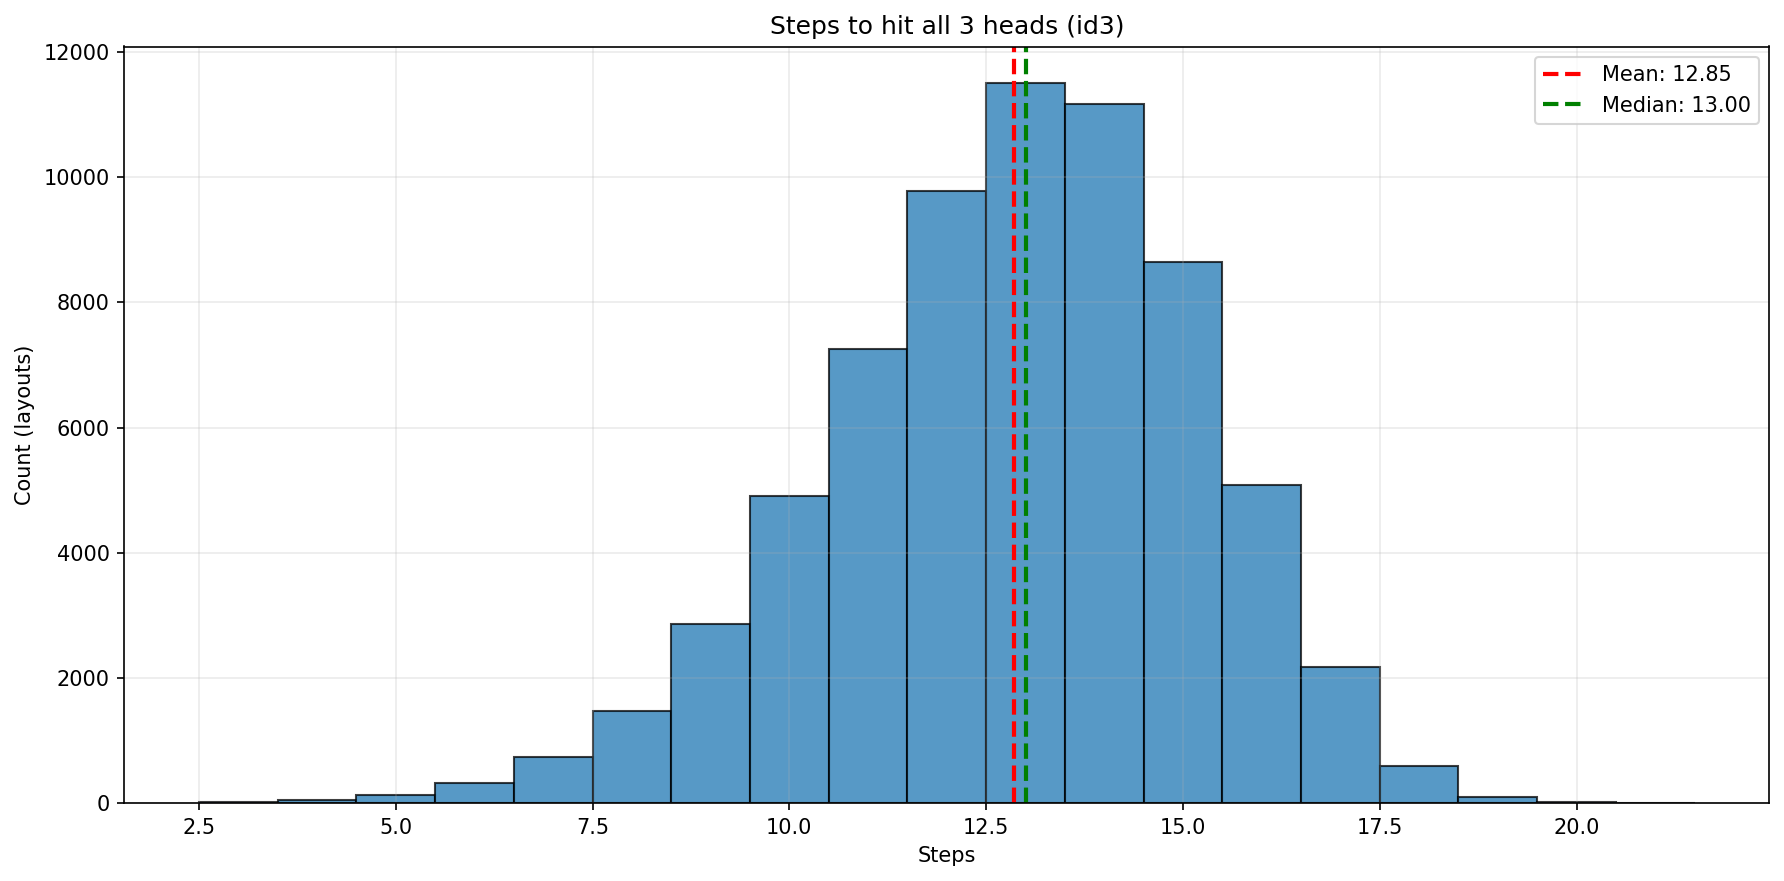
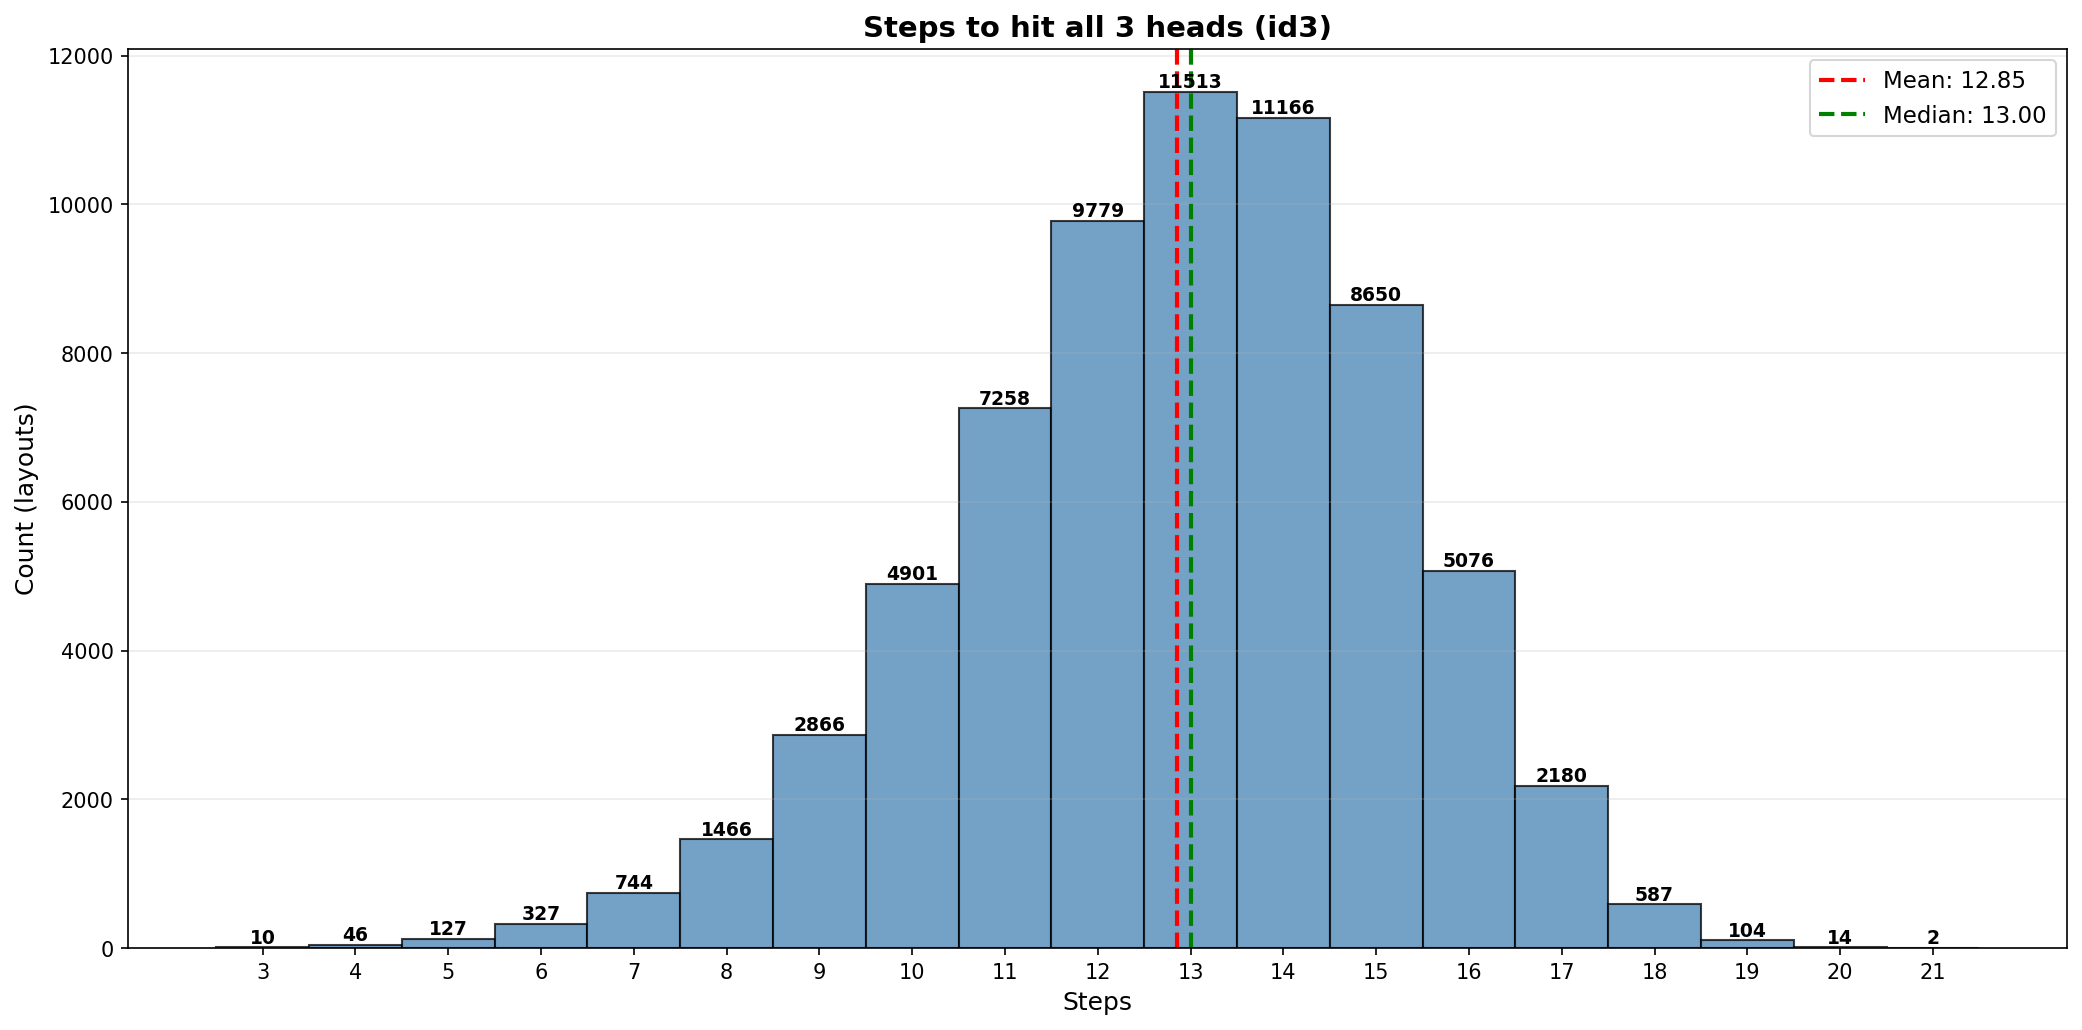
experiment on monkey method (small setup)

diff --git a/README.md b/README.md
@@ -1,3 +1,5 @@
+# 炸飞机/飞机大战 游戏AI
+
 [![GitHub Repo](https://img.shields.io/badge/GitHub-mathmonkeyliu%2Fzfj-181717?style=flat-square&logo=github)](https://github.com/mathmonkeyliu/zfj)
 [![Stars](https://img.shields.io/github/stars/mathmonkeyliu/zfj?style=flat-square)](https://github.com/mathmonkeyliu/zfj/stargazers)
 [![Forks](https://img.shields.io/github/forks/mathmonkeyliu/zfj?style=flat-square)](https://github.com/mathmonkeyliu/zfj/network/members)
@@ -5,9 +7,7 @@
 [![Last Commit](https://img.shields.io/github/last-commit/mathmonkeyliu/zfj?style=flat-square)](https://github.com/mathmonkeyliu/zfj/commits/main)
 [![Python](https://img.shields.io/badge/Python-%3E%3D3.11-3776AB?style=flat-square&logo=python&logoColor=white)](https://github.com/mathmonkeyliu/zfj)
 
-# 炸飞机/飞机大战 游戏AI
-
-**炸飞机**（又称**飞机大战**）游戏的AI。
+本项目是**炸飞机**（又称**飞机大战**）游戏的AI。
 
 ## 游玩
 
@@ -103,11 +103,22 @@ python evaluate.py --method id3
 
 ## AI性能
 
-我们使用击落全部飞机所用步数的中位数作为性能评估标准。
+我们使用击落全部飞机所用步数的**中位数**和平均数作为性能评估标准。
 
 ### ID3
 ![ID3](evaluation_id3.png)
-中位数为**13.00**
+平均数为**12.85**，中位数为**13.00**。
+
+### Monkey Method
+
+#### Topk = 2, 3; num = 10
+
+这是一个简单的超参数设置，实验结果如下：
+
+![Monkey](evaluation_monkey_2_10_3.png)
+平均数为**12.81**，中位数为**13.00**。
+
+可以看出最差情况为19步。（**19**，又是谁的回忆呢）
 
 ### 其它
 
